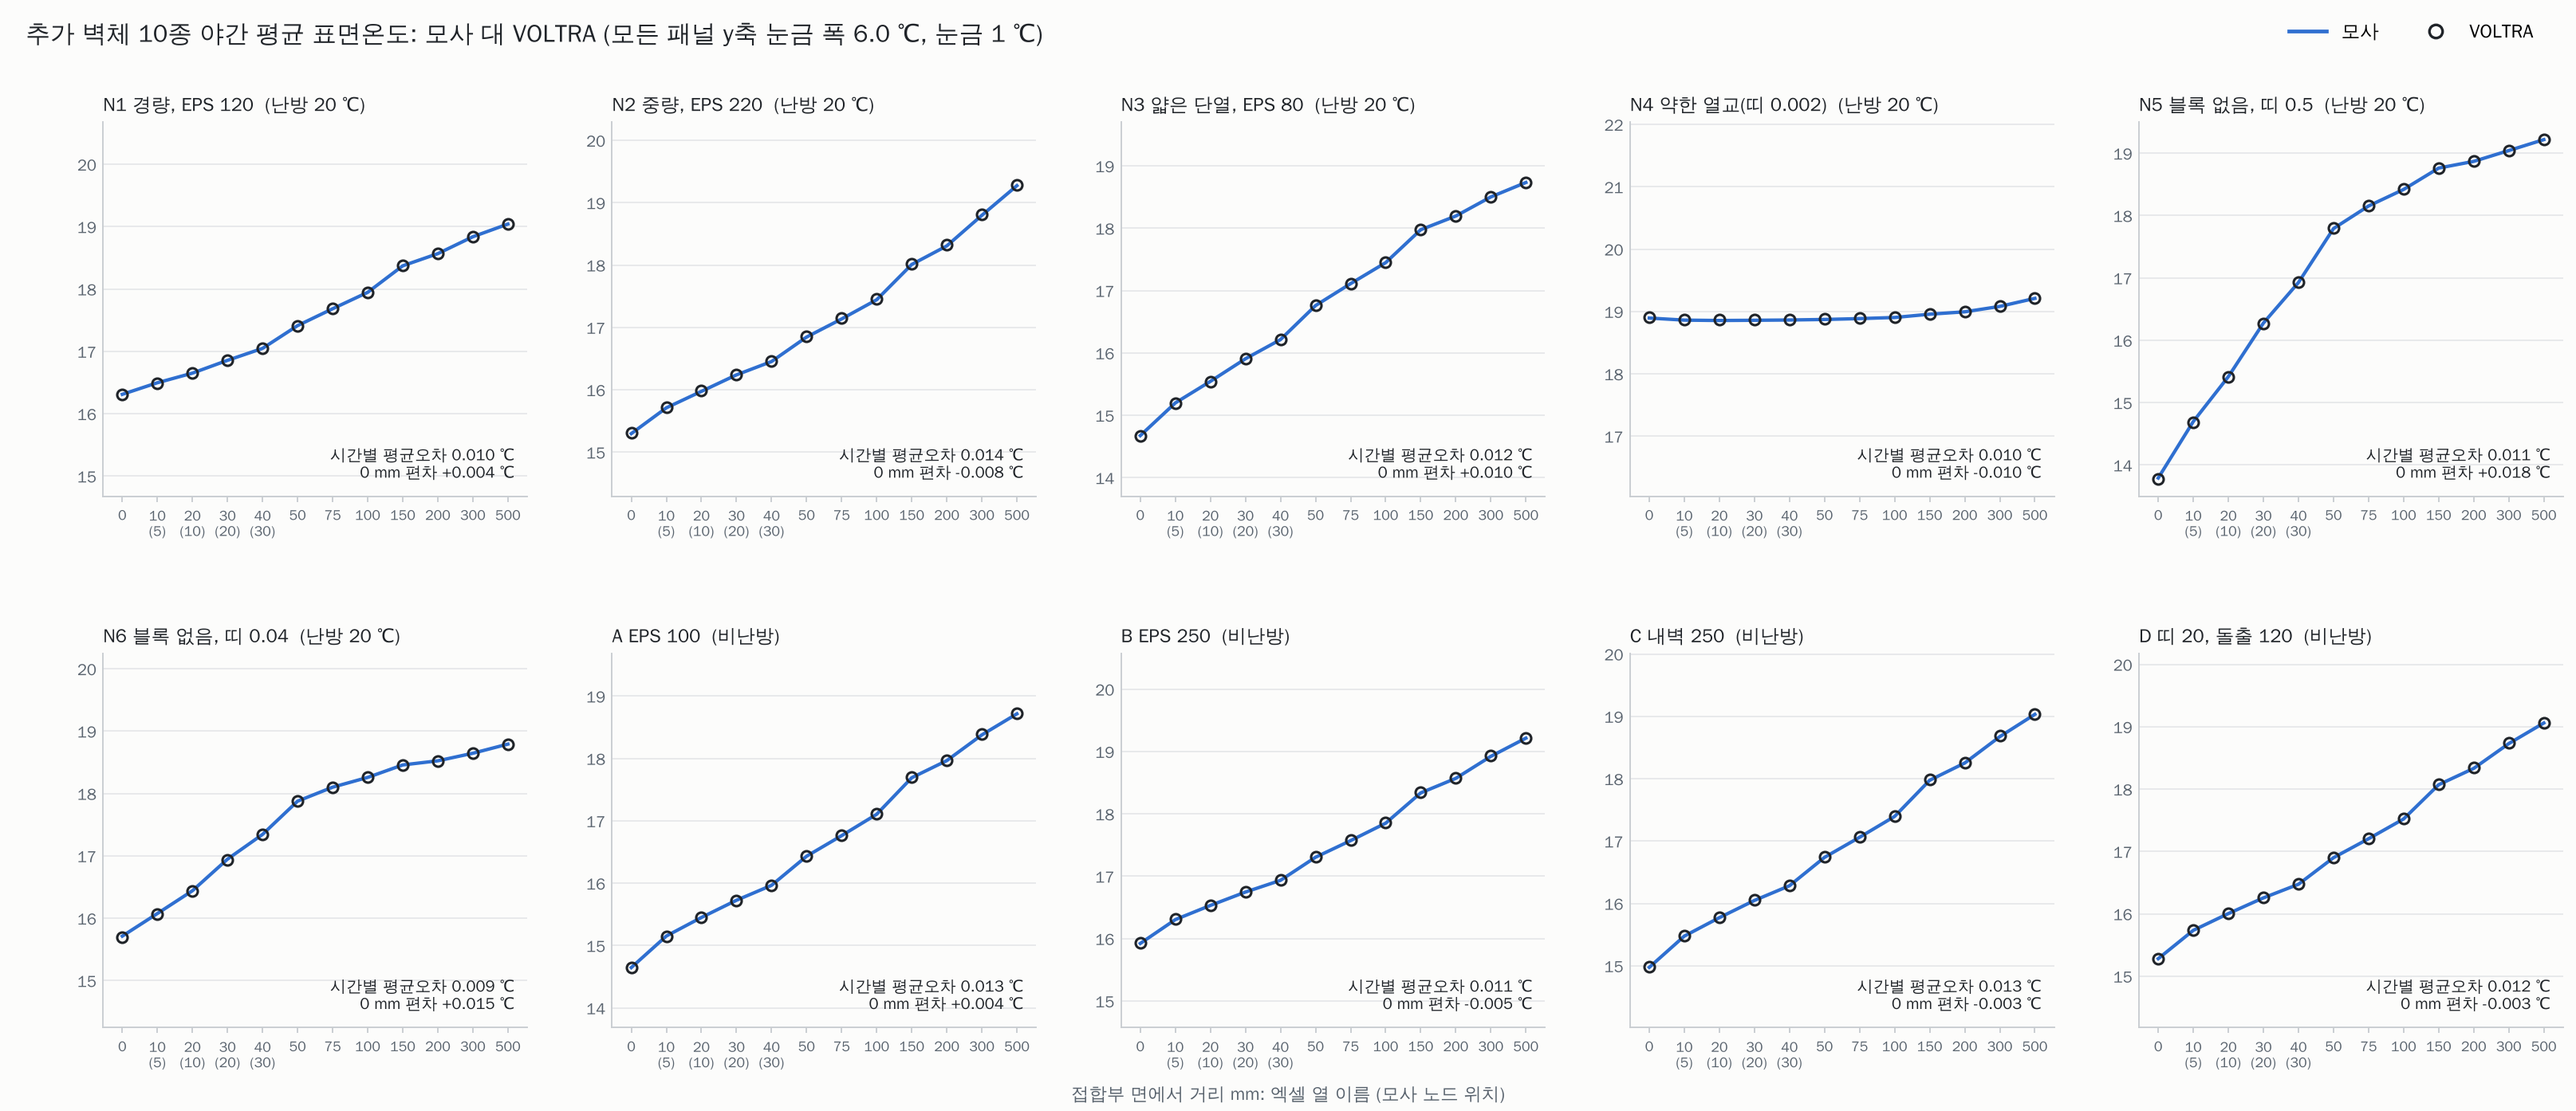
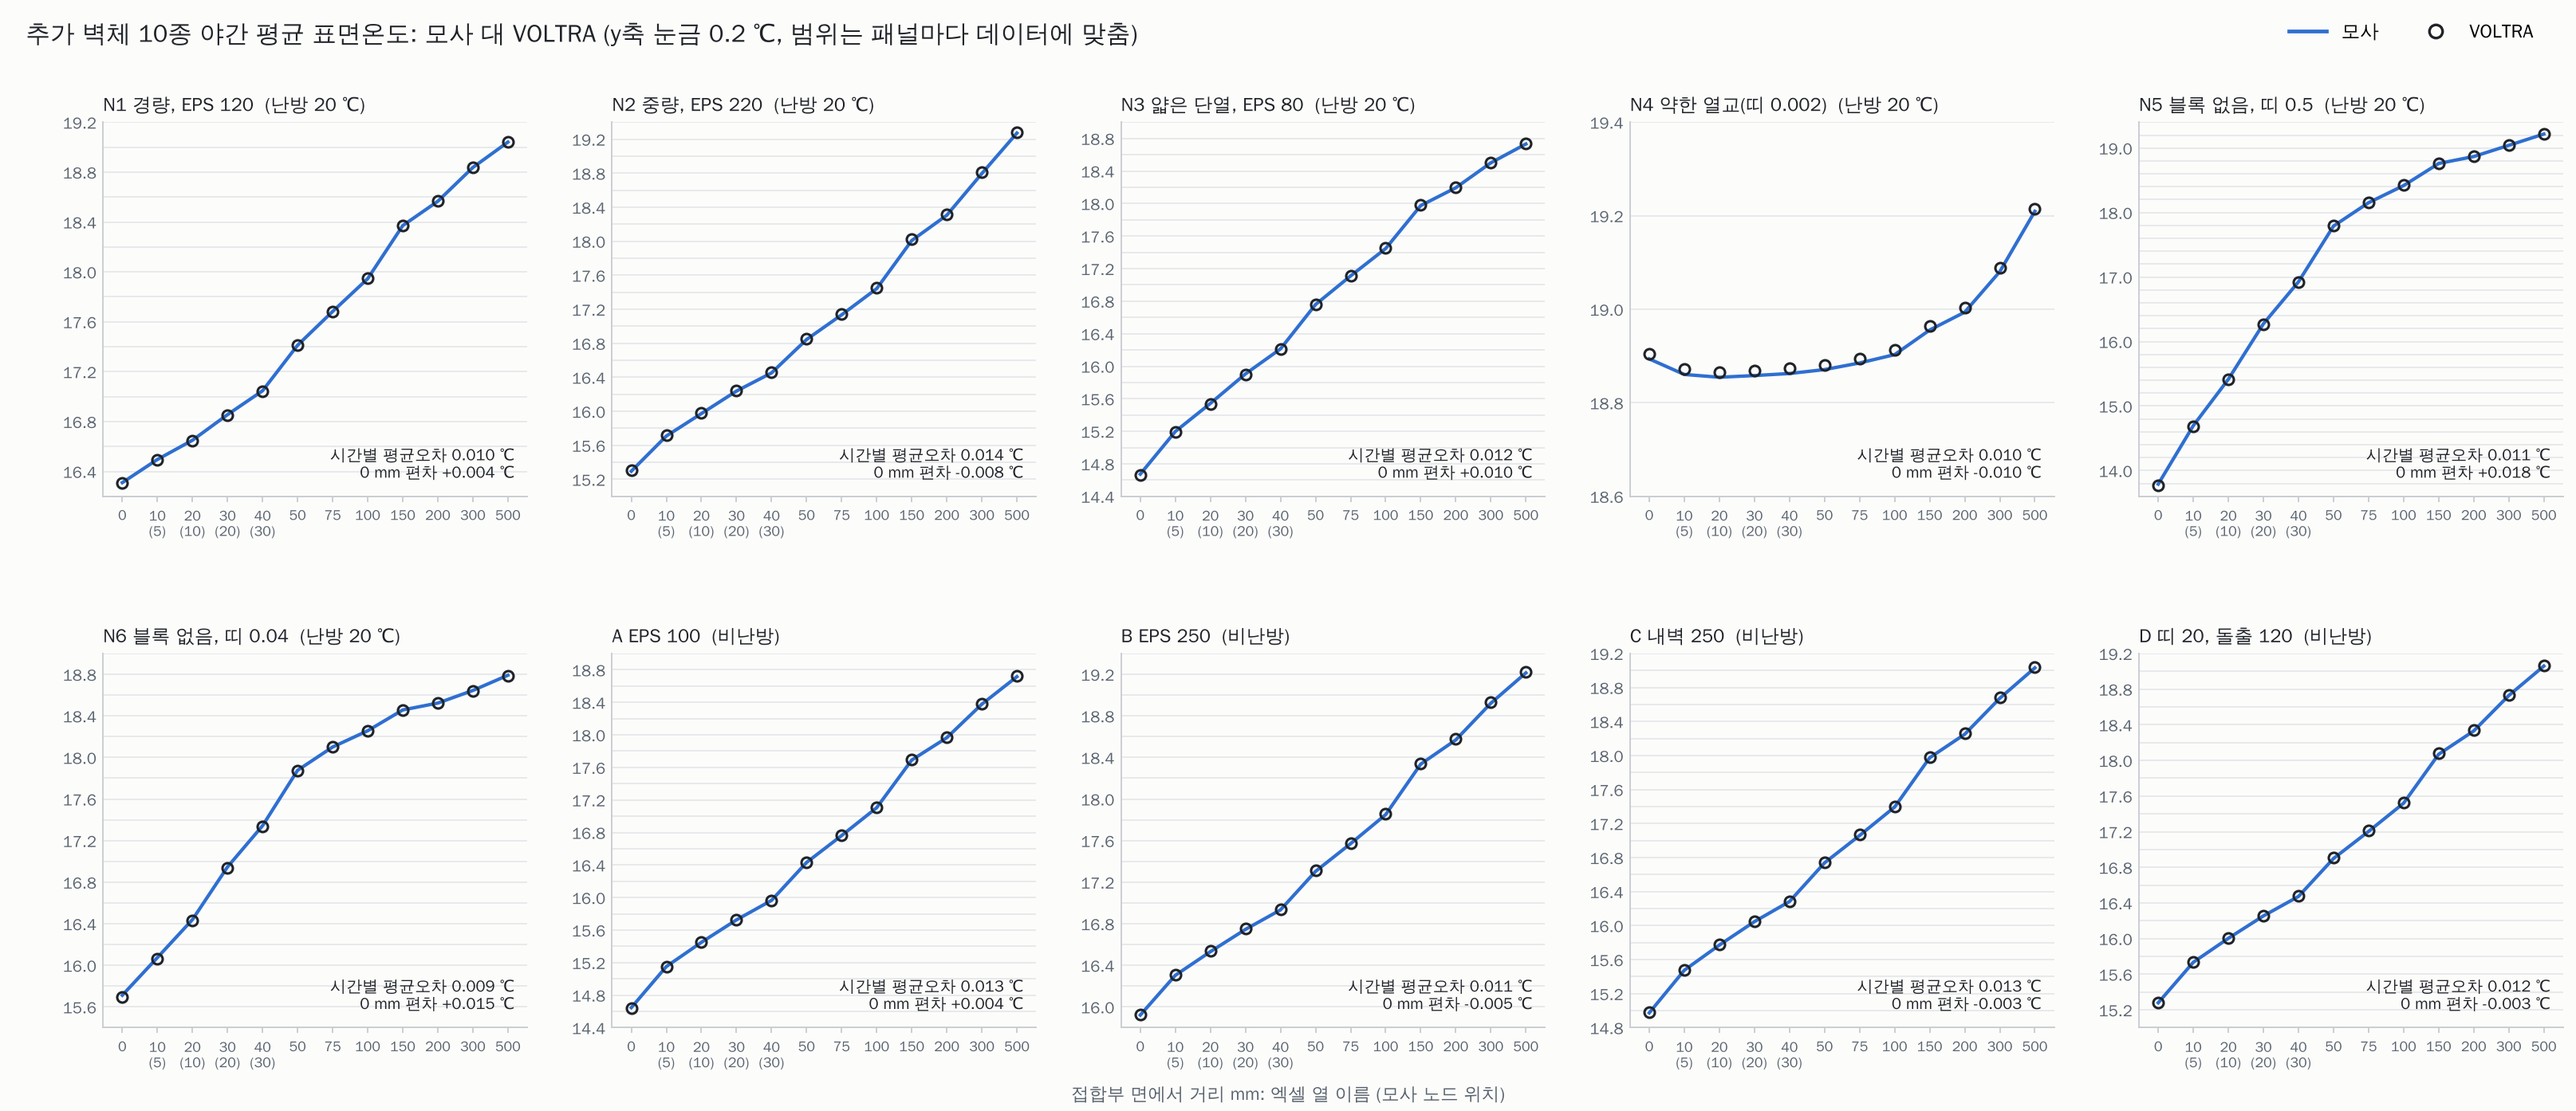
그림 y축 눈금 0.2 도, 범위는 패널마다 데이터에 맞춤 (프로파일 3장, 시계열 3장)
Claude-Session: https://claude.ai/code/session_012nzsqrEyz8e8FDP6zFtUgj

diff --git a/examples/plot_validation_overview.py b/examples/plot_validation_overview.py
@@ -12,6 +12,7 @@ import matplotlib; matplotlib.use("Agg")
 import matplotlib.pyplot as plt
 from matplotlib import font_manager as fm
 from matplotlib.ticker import MultipleLocator
+from axis02 import fit_y
 from hbcalc.validate import night_mask
 fm.fontManager.addfont("/usr/share/fonts/truetype/wqy/wqy-zenhei.ttc")
 plt.rcParams.update({"font.family": "WenQuanYi Zen Hei", "axes.unicode_minus": False})
@@ -29,9 +30,7 @@ def style(ax, xt=True, fs=8):
     ax.grid(axis="y", color=GRID, lw=0.7); ax.set_axisbelow(True)
 
 def profile(ax, v, m, title, fs=8):
-    mid = (max(v.max(), m.max()) + min(v.min(), m.min())) / 2
-    assert max(v.max(), m.max()) - min(v.min(), m.min()) < SPAN - 0.3, title
-    ax.set_ylim(mid - SPAN / 2, mid + SPAN / 2); ax.yaxis.set_major_locator(MultipleLocator(1.0))
+    fit_y(ax, min(v.min(), m.min()), max(v.max(), m.max()))
     ax.plot(x, m, color=BLUE, lw=1.8, zorder=2); ax.plot(x, v, "o", mfc="none", mec=INK, mew=1.3, ms=5.5, zorder=3)
     ax.set_xticks(x); style(ax, fs=fs)
     ax.set_title(title, loc="left", fontsize=fs + 1.5, color=INK)
@@ -55,7 +54,7 @@ for k, n in enumerate(order):
     ax.set_xticklabels(["0", "", "", "", "", "50", "", "", "", "", "", "500"], fontsize=7.5, color=MUTED)
 for k in range(len(order), nr * nc): axs[k // nc, k % nc].axis("off")
 legend(fig, y=0.992)
-fig.suptitle("난방 39케이스 야간 평균 표면온도: 모사 대 VOLTRA (왼쪽 위 열교 약함, 오른쪽 아래 강함). 패널마다 y축 위치는 다르지만 눈금 폭은 모두 6.0 ℃, 눈금 1 ℃",
+fig.suptitle("난방 39케이스 야간 평균 표면온도: 모사 대 VOLTRA (왼쪽 위 열교 약함, 오른쪽 아래 강함). y축 눈금 0.2 ℃, 범위는 패널마다 데이터에 맞춤(숫자는 눈금이 많으면 건너뜀)",
              x=0.01, ha="left", fontsize=13, color=INK)
 fig.text(0.5, 0.008, "접합부 면에서 거리 mm (0 ~ 500, 12개 위치를 같은 간격으로 표시)", ha="center", fontsize=9.5, color=MUTED)
 fig.subplots_adjust(left=0.035, right=0.995, top=0.925, bottom=0.04)
@@ -80,7 +79,7 @@ for k, (nm, cond, Vs, Ms, pl) in enumerate(walls):
     ax.text(0.97, 0.05, f"시간별 평균오차 {mae:.3f} ℃\n0 mm 편차 {(m - v)[0]:+.3f} ℃", transform=ax.transAxes, fontsize=8.5, color=INK, ha="right")
     ax.set_xticklabels(XT, fontsize=7.5, color=MUTED)
 legend(fig)
-fig.suptitle("추가 벽체 10종 야간 평균 표면온도: 모사 대 VOLTRA (모든 패널 y축 눈금 폭 6.0 ℃, 눈금 1 ℃)", x=0.01, ha="left", fontsize=13, color=INK)
+fig.suptitle("추가 벽체 10종 야간 평균 표면온도: 모사 대 VOLTRA (y축 눈금 0.2 ℃, 범위는 패널마다 데이터에 맞춤)", x=0.01, ha="left", fontsize=13, color=INK)
 fig.text(0.5, 0.01, "접합부 면에서 거리 mm: 엑셀 열 이름 (모사 노드 위치)", ha="center", fontsize=9.5, color=MUTED)
 fig.subplots_adjust(left=0.04, right=0.995, top=0.89, bottom=0.075)
 fig.savefig(os.path.join(ROOT, "results/fig_extra_walls_profile.png"), dpi=170, facecolor=SURF); plt.close(fig)
@@ -91,13 +90,11 @@ fig, axs = plt.subplots(4, 5, figsize=(19, 11.5), facecolor=SURF, gridspec_kw={"
 EL = 0.3
 for k, (nm, cond, Vs, Ms, pl) in enumerate(walls):
     g, j = divmod(k, 5); a, b = axs[2 * g, j], axs[2 * g + 1, j]
-    TS, tick = (6.0, 1.0) if cond.startswith("난방") else (10.5, 2.0)   # 비난방은 실내온도가 변해 변동 폭이 큼
-    v, m = Vs[:H, 0], Ms[:H, 0]; mid = (max(v.max(), m.max()) + min(v.min(), m.min())) / 2
-    assert max(v.max(), m.max()) - min(v.min(), m.min()) < TS - 0.3, nm
+    v, m = Vs[:H, 0], Ms[:H, 0]
     for ax in (a, b):
         for day in range(8):
             ax.axvspan(day * 24 - 6, day * 24 + 7, color="#eef0f3", zorder=0)   # 야간 18시 ~ 07시(전날 18시부터)
-    a.set_ylim(mid - TS / 2, mid + TS / 2); a.yaxis.set_major_locator(MultipleLocator(tick))
+    fit_y(a, min(v.min(), m.min()), max(v.max(), m.max()))
     a.plot(t, v, color=GRAY, lw=3.2, zorder=2); a.plot(t, m, color=BLUE, lw=1.3, zorder=3)
     a.set_title(f"{nm}  ({cond})", loc="left", fontsize=10, color=INK)
     e = m - v
@@ -110,7 +107,7 @@ for k, (nm, cond, Vs, Ms, pl) in enumerate(walls):
     if j == 0: a.set_ylabel("0 mm 표면온도 (℃)", fontsize=9, color=MUTED); b.set_ylabel("모사 - VOLTRA (℃)", fontsize=9, color=MUTED)
 h = [plt.Line2D([], [], color=GRAY, lw=3.2), plt.Line2D([], [], color=BLUE, lw=1.4)]
 fig.legend(h, ["VOLTRA", "모사"], frameon=False, fontsize=10, loc="upper right", ncol=2, bbox_to_anchor=(0.99, 0.995))
-fig.suptitle("추가 벽체 10종 접합부 0 mm 표면온도 시계열(첫 7일): 위 절대값(난방 y축 폭 6 ℃ 눈금 1 ℃, 비난방 폭 10.5 ℃ 눈금 2 ℃), 아래 오차(띠 ±0.05 ℃). 회색 배경이 야간(18 ~ 07시)", x=0.01, ha="left", fontsize=13, color=INK)
+fig.suptitle("추가 벽체 10종 접합부 0 mm 표면온도 시계열(첫 7일): 위 절대값(y축 눈금 0.2 ℃, 범위는 패널마다 데이터에 맞춤), 아래 오차(띠 ±0.05 ℃). 회색 배경이 야간(18 ~ 07시)", x=0.01, ha="left", fontsize=13, color=INK)
 fig.subplots_adjust(left=0.05, right=0.995, top=0.925, bottom=0.04)
 fig.savefig(os.path.join(ROOT, "results/fig_extra_walls_timeseries.png"), dpi=150, facecolor=SURF); plt.close(fig)
 

diff --git a/examples/plot_try3_timeseries.py b/examples/plot_try3_timeseries.py
@@ -1,5 +1,5 @@
 """TRY3 69케이스(난방 39, 비난방 30) 접합부 0 mm 시간별 표면온도 시계열: VOLTRA 대 모사(현재 기본 설정, 일사 보정 0), 첫 7일.
-케이스마다 위 패널은 절대온도(폭 8 도, 눈금 2 도), 아래 패널은 모사 - VOLTRA 오차(폭 +-0.3 도, 띠 +-0.05 도). 회색 배경 = 야간(18 ~ 07시).
+케이스마다 위 패널은 절대온도(눈금 0.2 도, 범위는 패널마다 데이터에 맞춤), 아래 패널은 모사 - VOLTRA 오차(폭 +-0.3 도, 띠 +-0.05 도). 회색 배경 = 야간(18 ~ 07시).
 입력: results/_abs_cache.pkl (compare_surface_temperature.py 가 만든다). 출력: results/fig_ts_try3_{heating,nonheating}.png"""
 import os, sys, pickle
 ROOT = os.path.dirname(os.path.dirname(os.path.abspath(__file__))); sys.path.insert(0, ROOT)
@@ -8,6 +8,7 @@ import matplotlib; matplotlib.use("Agg")
 import matplotlib.pyplot as plt
 from matplotlib import font_manager as fm
 from matplotlib.ticker import MultipleLocator
+from axis02 import fit_y
 from hbcalc.validate import night_mask
 fm.fontManager.addfont("/usr/share/fonts/truetype/wqy/wqy-zenhei.ttc")
 plt.rcParams.update({"font.family": "WenQuanYi Zen Hei", "axes.unicode_minus": False})
@@ -32,9 +33,7 @@ for cond, fn in (("난방", "fig_ts_try3_heating.png"), ("비난방", "fig_ts_tr
         d = cache[(cond, nm)]; v = d["V_surf"][0]; m = d["M_surf_0.0"][0]
         r, c = divmod(i, nc); a = fig.add_subplot(gs[2 * r, c]); b = fig.add_subplot(gs[2 * r + 1, c], sharex=a)
         shade(a); shade(b)
-        mid = (max(v[:H].max(), m[:H].max()) + min(v[:H].min(), m[:H].min())) / 2
-        sp = SPANS[cond]; assert max(v[:H].max(), m[:H].max()) - min(v[:H].min(), m[:H].min()) < sp - 0.3, nm
-        a.set_ylim(mid - sp / 2, mid + sp / 2); a.yaxis.set_major_locator(MultipleLocator(2))
+        fit_y(a, min(v[:H].min(), m[:H].min()), max(v[:H].max(), m[:H].max()))
         a.plot(t, v[:H], color=GRAY, lw=3.2, zorder=2); a.plot(t, m[:H], color=BLUE, lw=1.3, zorder=3)
         a.set_title(short(nm), loc="left", fontsize=10, color=INK); plt.setp(a.get_xticklabels(), visible=False)
         e = m - v
@@ -42,6 +41,6 @@ for cond, fn in (("난방", "fig_ts_try3_heating.png"), ("비난방", "fig_ts_tr
         b.plot(t, e[:H], color=BLUE, lw=1.0, zorder=3); el = ELIM[cond]; assert np.abs(e[:H]).max() < el, (nm, np.abs(e[:H]).max()); b.set_ylim(-el, el); b.yaxis.set_major_locator(MultipleLocator(0.1 if el < 0.4 else 0.2))
         b.set_xticks(range(0, H + 1, 24)); b.set_xticklabels([f"{k}일" for k in range(8)])
         b.text(1.0, 1.04, f"0 mm 야간 평균절대오차 {np.abs(e[mk]).mean():.3f}", transform=b.transAxes, ha="right", va="bottom", fontsize=8, color=INK)
-    fig.suptitle(f"{cond} TRY3 {len(names)}케이스 접합부 0 mm 표면온도 시계열(첫 7일): 회색 굵은선 VOLTRA, 파랑 모사. 위 절대값(폭 {SPANS[cond]} ℃, 눈금 2 ℃), 아래 오차(띠 ±0.05 ℃, 폭 ±{ELIM[cond]} ℃). 회색 배경 = 야간(18 ~ 07시)",
+    fig.suptitle(f"{cond} TRY3 {len(names)}케이스 접합부 0 mm 표면온도 시계열(첫 7일): 회색 굵은선 VOLTRA, 파랑 모사. 위 절대값(y축 눈금 0.2 ℃, 범위는 패널마다 데이터에 맞춤), 아래 오차(띠 ±0.05 ℃, 폭 ±{ELIM[cond]} ℃). 회색 배경 = 야간(18 ~ 07시)",
                  x=0.035, ha="left", fontsize=12, color=INK)
     fig.savefig(os.path.join(ROOT, "results", fn), dpi=110); plt.close(fig); print(fn, len(names))

diff --git a/examples/plot_nonheating_overview.py b/examples/plot_nonheating_overview.py
@@ -7,6 +7,7 @@ import matplotlib; matplotlib.use("Agg")
 import matplotlib.pyplot as plt
 from matplotlib import font_manager as fm
 from matplotlib.ticker import MultipleLocator
+from axis02 import fit_y
 fm.fontManager.addfont("/usr/share/fonts/truetype/wqy/wqy-zenhei.ttc")
 plt.rcParams.update({"font.family": "WenQuanYi Zen Hei", "axes.unicode_minus": False})
 INK, MUTED, GRID, SURF, BLUE = "#1f2328", "#59636e", "#e4e6e8", "#fcfcfb", "#2f6fd0"
@@ -19,8 +20,7 @@ SPAN = 8.0; x = np.arange(12); nr, nc = 4, 8
 fig, axs = plt.subplots(nr, nc, figsize=(21, 11), facecolor=SURF, gridspec_kw={"hspace": 0.5, "wspace": 0.22})
 for k, n in enumerate(order):
     ax = axs[k // nc, k % nc]; v, m = V.loc[n].values, M.loc[n].values
-    lo_, hi_ = min(v.min(), m.min()), max(v.max(), m.max()); assert hi_ - lo_ < SPAN - 0.3, n
-    mid = (lo_ + hi_) / 2; ax.set_ylim(mid - SPAN / 2, mid + SPAN / 2); ax.yaxis.set_major_locator(MultipleLocator(2.0))
+    fit_y(ax, min(v.min(), m.min()), max(v.max(), m.max()))
     ax.plot(x, m, color=BLUE, lw=1.8, zorder=2); ax.plot(x, v, "o", mfc="none", mec=INK, mew=1.3, ms=5.5, zorder=3)
     ax.set_facecolor(SURF); ax.set_title(short(n), loc="left", fontsize=9.5, color=INK)
     for sp in ("top", "right"): ax.spines[sp].set_visible(False)
@@ -32,7 +32,7 @@ for k, n in enumerate(order):
 for k in range(len(order), nr * nc): axs[k // nc, k % nc].axis("off")
 h = [plt.Line2D([], [], color=BLUE, lw=2), plt.Line2D([], [], marker="o", mfc="none", mec=INK, mew=1.4, ls="", ms=7)]
 fig.legend(h, ["모사", "VOLTRA"], frameon=False, fontsize=10, loc="upper right", ncol=2, bbox_to_anchor=(0.99, 0.992))
-fig.suptitle("비난방(실내온도 변동) 30케이스 야간 평균 표면온도: 모사 대 VOLTRA (왼쪽 위 열교 약함, 오른쪽 아래 강함). 패널마다 y축 위치는 다르고 눈금 폭은 모두 8 ℃, 눈금 2 ℃",
+fig.suptitle("비난방(실내온도 변동) 30케이스 야간 평균 표면온도: 모사 대 VOLTRA (왼쪽 위 열교 약함, 오른쪽 아래 강함). y축 눈금 0.2 ℃, 범위는 패널마다 데이터에 맞춤(숫자는 눈금이 많으면 건너뜀)",
              x=0.01, ha="left", fontsize=12.5, color=INK)
 fig.text(0.5, 0.01, "접합부 면에서 거리 mm (0 ~ 500, 12개 위치를 같은 간격으로 표시)", ha="center", fontsize=9.5, color=MUTED)
 fig.subplots_adjust(left=0.035, right=0.995, top=0.91, bottom=0.05)

diff --git a/examples/axis02.py b/examples/axis02.py
@@ -1,0 +1,11 @@
+"""그림의 y축(온도)을 0.2 ℃ 간격 눈금으로 맞추는 도우미. 패널마다 데이터 범위에 맞춰 y축 범위를 줄인다(범위는 0.2의 배수).
+눈금이 많아지면(범위가 2.2 ℃ 넘음) 눈금 선은 0.2 ℃마다 두고 숫자 표시만 건너뛴다(max_labels개 이하)."""
+import numpy as np
+from matplotlib.ticker import MultipleLocator, FuncFormatter
+
+def fit_y(ax, lo, hi, step=0.2, pad=0.1, max_labels=12):
+    y0 = np.floor((lo - pad) / step + 1e-9) * step; y1 = np.ceil((hi + pad) / step - 1e-9) * step
+    ax.set_ylim(y0, y1); ax.yaxis.set_major_locator(MultipleLocator(step))
+    n = int(round((y1 - y0) / step)) + 1; k = next(c for c in (1, 2, 5, 10, 25, 50) if n / c <= max_labels)   # 숫자는 0.2, 0.4, 1.0, 2.0, 5.0 ℃ 단위로만 건너뜀
+    ax.yaxis.set_major_formatter(FuncFormatter(lambda y, _: f"{y:.1f}" if int(round(y / step)) % k == 0 else ""))
+    return y1 - y0, k
